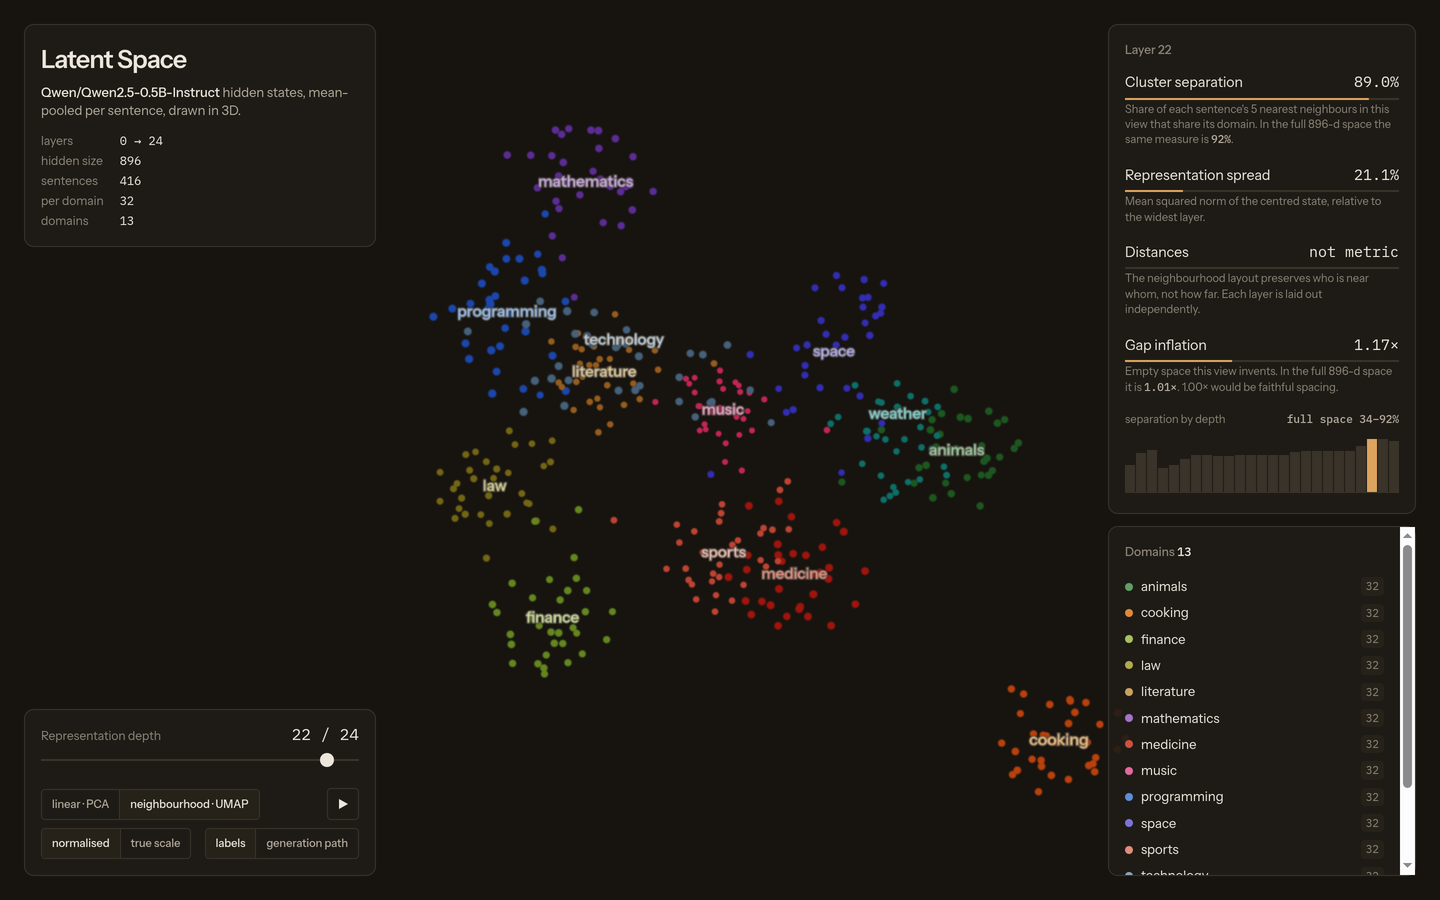
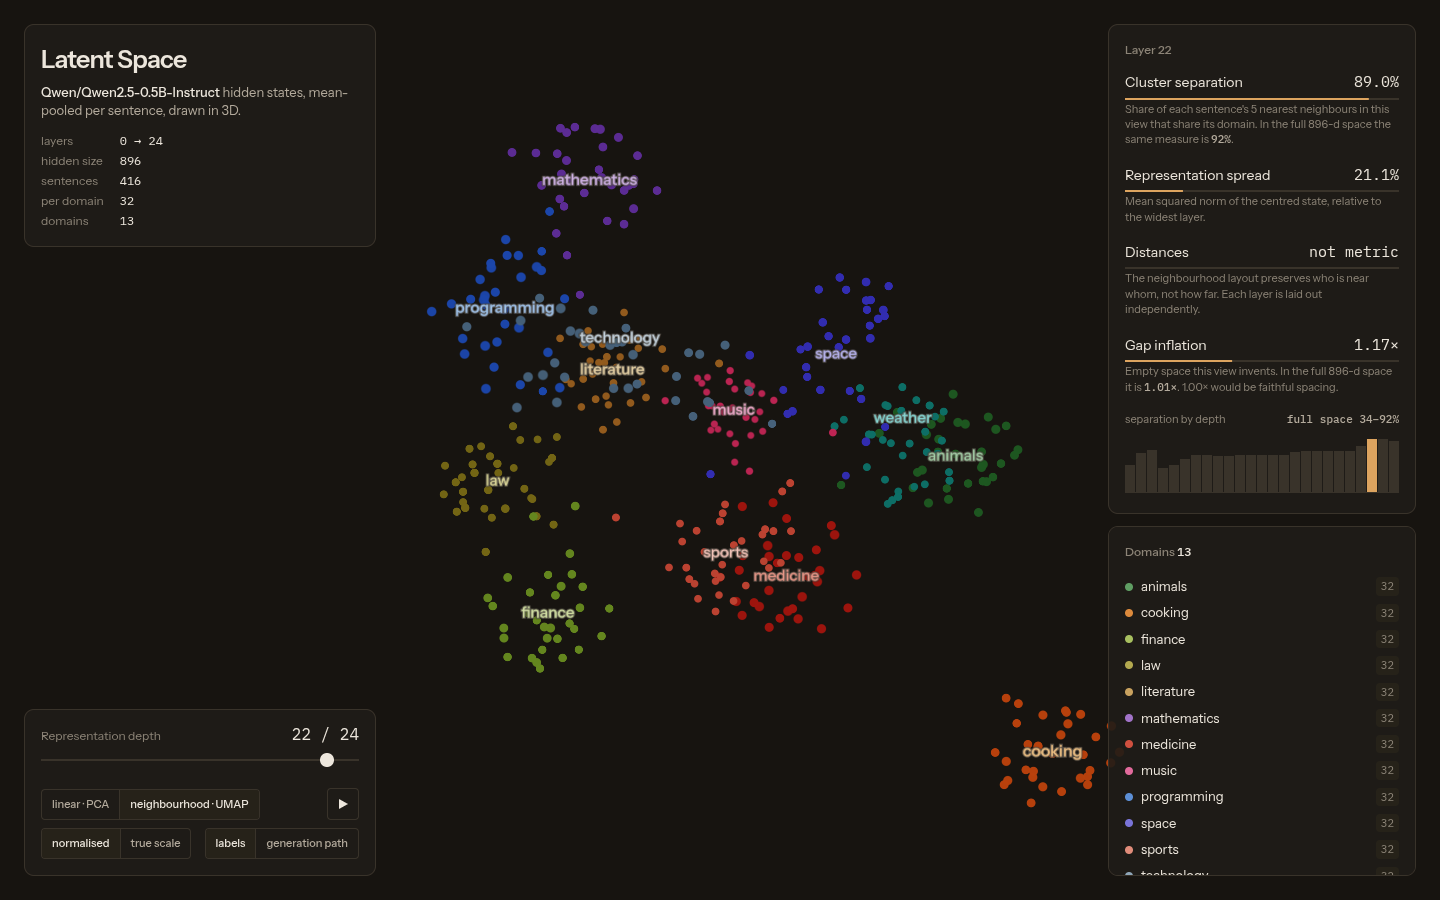
Points: crisper rims, plus a slight depth of field
The fragment falloff started at r=0.28, so every dot was a fuzzy blob with a
small core. The edge now starts at 0.42 (a thin rim), which reads as a defined
disc instead of a smear.

On top of that the vertex shader computes a circle of confusion from the
point's view-space depth against the focal plane at the orbit centre, and the
defocus both widens the rim (0.42 -> 0.02) and spreads the sprite (up to 1.5x)
with a small alpha falloff. The plane tracks the camera radius each frame, so
the cluster stays sharp and only the points in front of / behind it go soft.
uDof=0.6 is the calibrated amount.

preview.png re-captured.

diff --git a/index.html b/index.html
@@ -405,26 +405,40 @@
 
     points = new THREE.Points(ge, new THREE.ShaderMaterial({
       transparent: true, depthWrite: false,
-      uniforms: { uPixel: { value: window.innerHeight } },
+      uniforms: {
+        uPixel: { value: window.innerHeight },
+        uFocus: { value: 4.0 },      // world-space depth of the focal plane; set each frame from the camera radius
+        uDof: { value: 0.6 }         // 0 = everything pin sharp, 1 = full defocus for the far plane
+      },
+      // Sharp discs by default. The focal plane sits on the orbit centre, so
+      // whatever distance you are viewing from is the plane in focus; points whose
+      // view-space depth departs from it pick up a small circle of confusion, which
+      // both softens the sprite's edge and spreads it a little.
       vertexShader: [
         'attribute vec3 aColor; attribute float aSize; attribute float aAlpha;',
-        'uniform float uPixel; varying vec3 vColor; varying float vAlpha;',
+        'uniform float uPixel; uniform float uFocus; uniform float uDof;',
+        'varying vec3 vColor; varying float vAlpha; varying float vSoft;',
         'void main(){',
         '  vColor = aColor; vAlpha = aAlpha;',
         '  vec4 mv = modelViewMatrix * vec4(position, 1.0);',
-        '  gl_PointSize = aSize * (uPixel / 900.0) * (3.4 / max(0.6, -mv.z));',
+        '  float depth = max(0.6, -mv.z);',
+        '  float coc = clamp(abs(depth - uFocus) / max(0.6, uFocus * 0.32), 0.0, 1.0);',
+        '  vSoft = pow(coc, 1.1) * uDof;',
+        '  gl_PointSize = aSize * (uPixel / 900.0) * (3.4 / depth) * (1.0 + vSoft * 0.5);',
         '  gl_Position = projectionMatrix * mv;',
         '}'
       ].join('\n'),
       fragmentShader: [
         'precision mediump float;',
-        'varying vec3 vColor; varying float vAlpha;',
+        'varying vec3 vColor; varying float vAlpha; varying float vSoft;',
         'void main(){',
         '  vec2 q = gl_PointCoord - vec2(0.5);',
         '  float r = length(q);',
         '  if (r > 0.5) discard;',
-        '  float a = (1.0 - smoothstep(0.28, 0.5, r)) * vAlpha;',
-        '  gl_FragColor = vec4(vColor, a);',
+        '  // edge is a hard rim in focus (0.42 -> 0.5) and widens as vSoft rises',
+        '  float edge = mix(0.42, 0.02, clamp(vSoft, 0.0, 1.0));',
+        '  float a = (1.0 - smoothstep(edge, 0.5, r)) * vAlpha;',
+        '  gl_FragColor = vec4(vColor, a * mix(1.0, 0.85, clamp(vSoft, 0.0, 1.0)));',
         '}'
       ].join('\n')
     }));
@@ -645,6 +659,9 @@
     var sp = Math.sin(cur.phi), cp = Math.cos(cur.phi);
     camera.position.set(cur.r * sp * Math.sin(cur.theta), cur.r * cp, cur.r * sp * Math.cos(cur.theta));
     camera.lookAt(0, 0, 0);
+    // Keep the depth-of-field focal plane on the orbit centre, so the cluster stays
+    // sharp and only the points in front of / behind it go soft, whatever the zoom.
+    points.material.uniforms.uFocus.value = cur.r;
 
     if (pointer.x > -1) {
       var idx = pickNearest();
